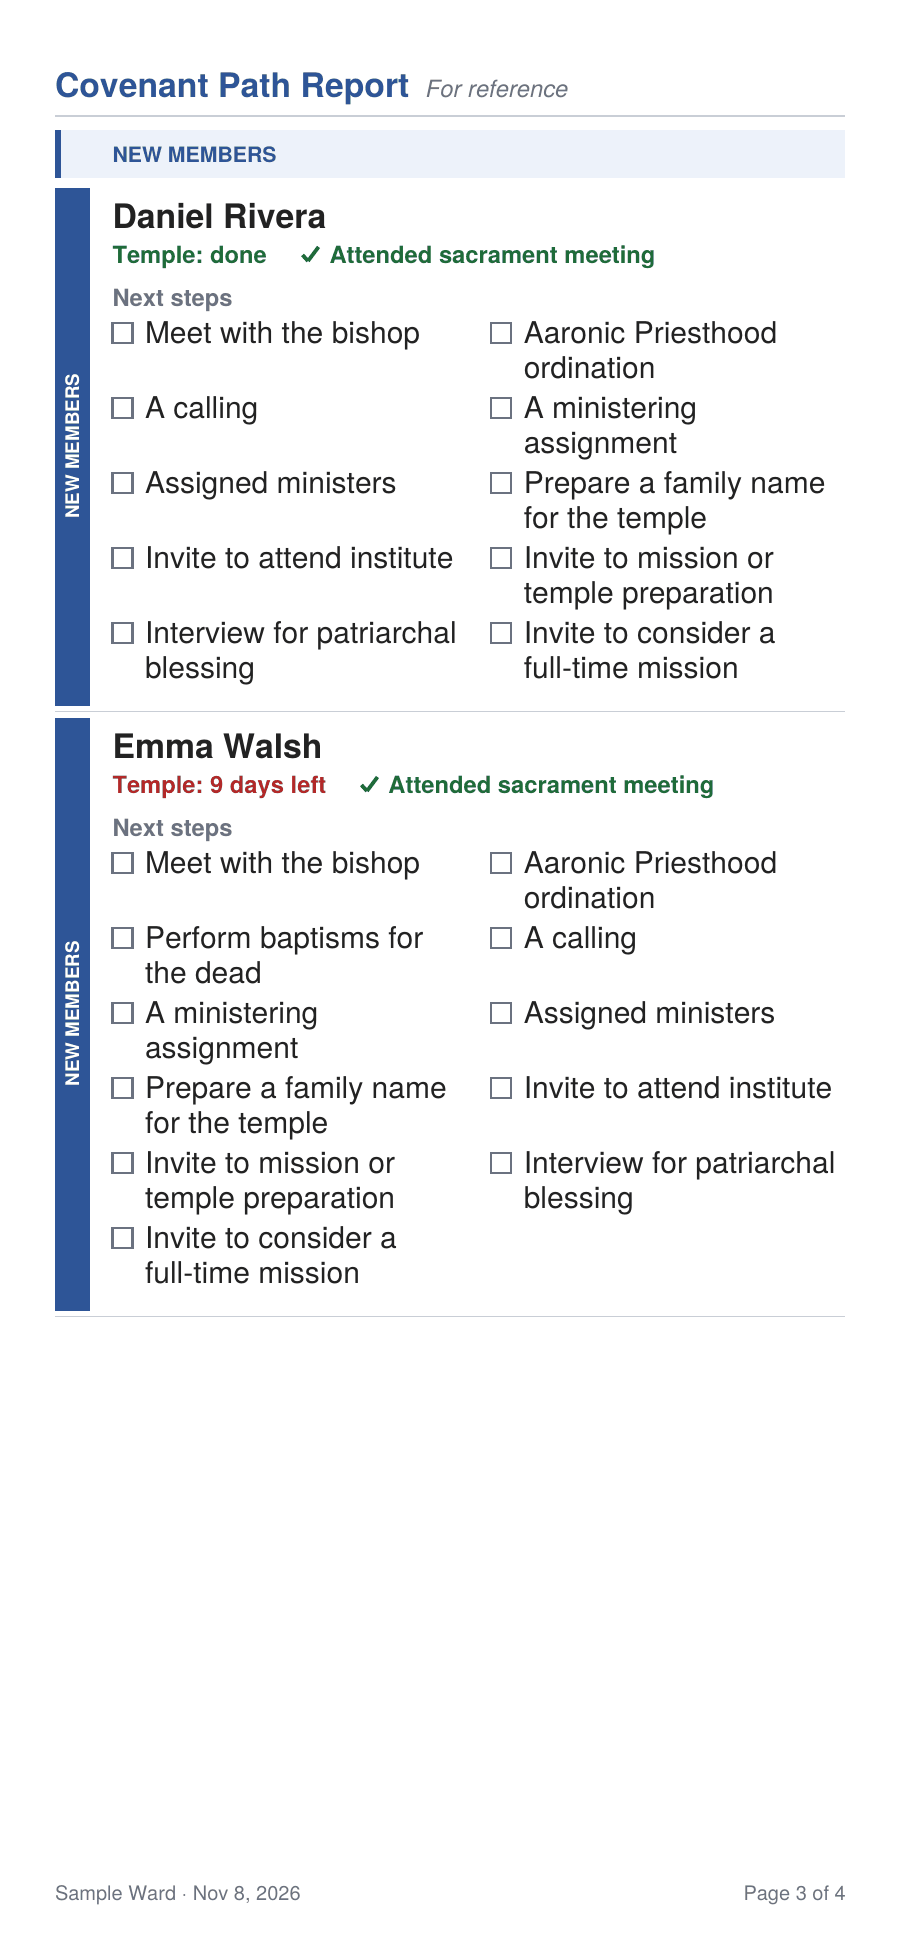
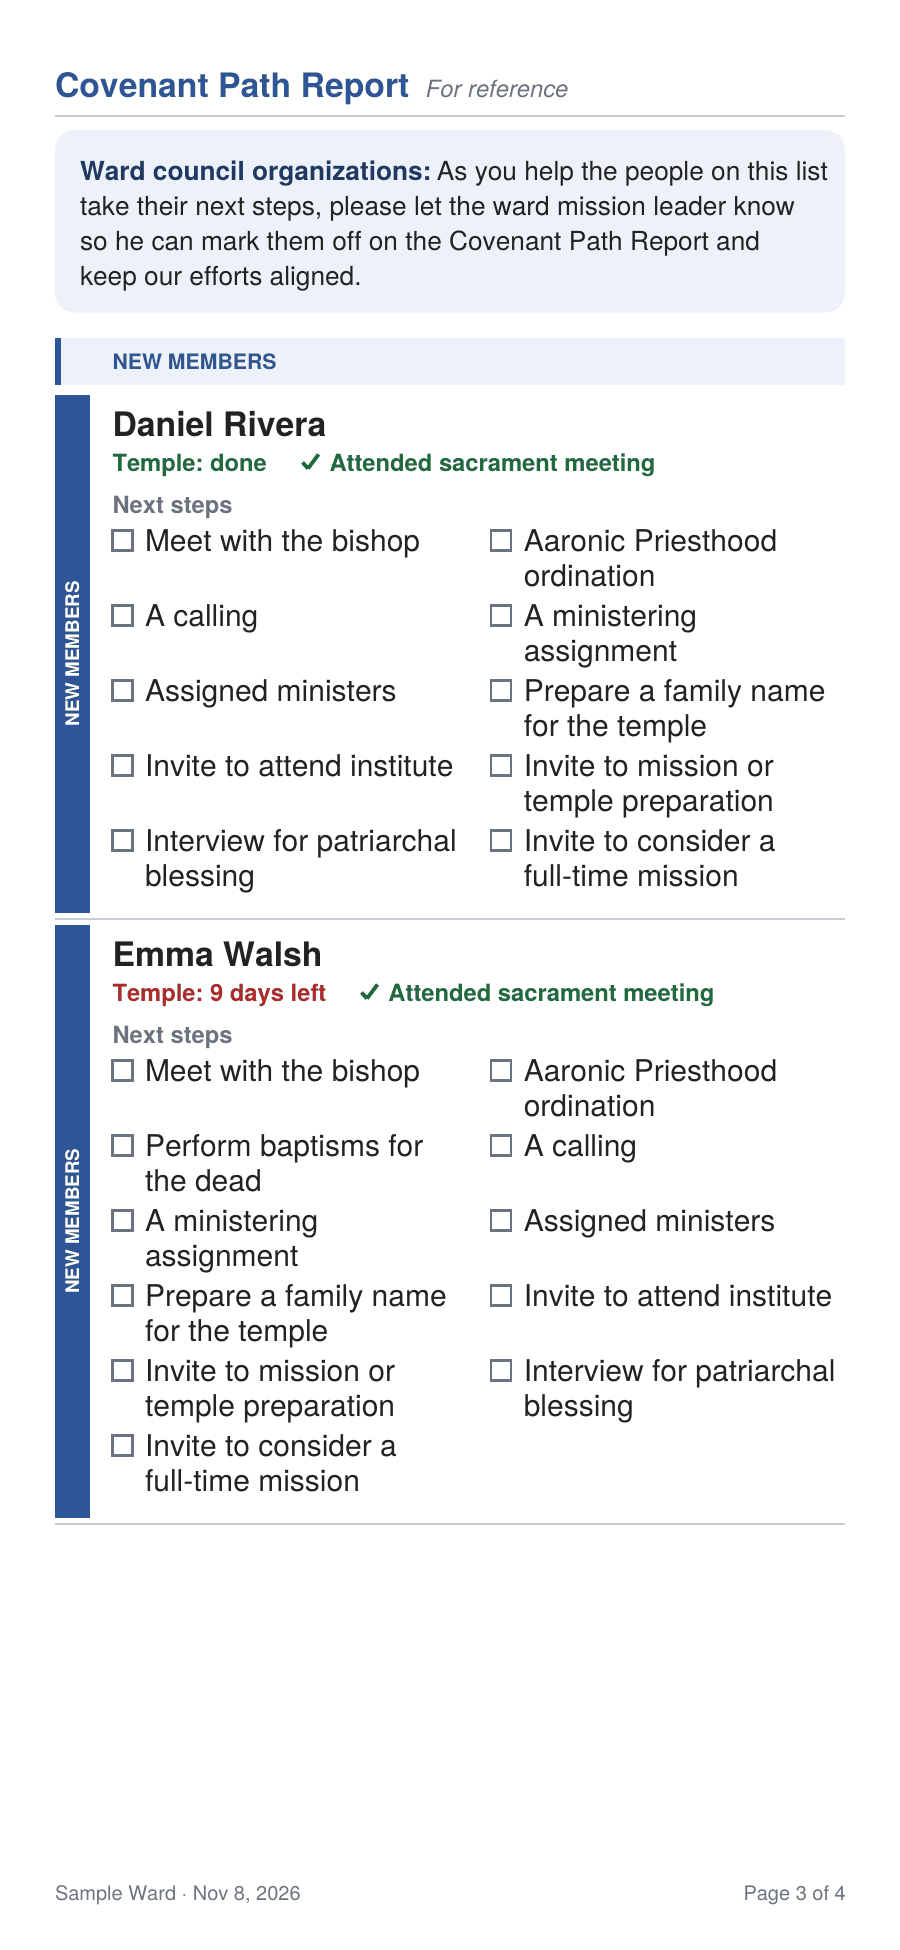
Release v257: the huddle report asks ward council organizations to tell the ward mission leader as people take their next steps
Claude-Session: https://claude.ai/code/session_01PW98YcMvh8WynmxGN9Y5LD

Changed region(s): [[0.0622, 0.0615, 0.9333, 0.8], [0.0622, 0.4615, 0.0933, 0.5538]]

diff --git a/app.js b/app.js
@@ -4379,6 +4379,20 @@
 
     /* ----- Covenant Path Report Review ----- */
     heading('Covenant Path Report', 'For reference');
+    // A note to ward council organizations (the user's wording, Nov 20, 2026): tell the ward mission leader as people take
+    // their next steps, so he can mark them off on the Covenant Path Report.
+    (function () {
+      var k = 'Ward council organizations: ', pad = 10, sz = 10.5, lh = 14;
+      var lns = wrap(k + WC_NOTE, F.reg, sz, R - L - pad * 2), hh = lns.length * lh + pad * 2 - 3;
+      put([line(hh, function (top) {
+        rbox(L, top, R - L, hh, 8, rgb(0.925, 0.945, 0.98));
+        lns.forEach(function (ln, i) {
+          var yy = top + pad + 10 + i * lh;
+          if (!i && ln.indexOf(k) === 0) { var e = tx(L + pad, yy, k.trim(), F.bold, sz, C.navy); tx(e + width(' ', F.reg, sz), yy, ln.slice(k.length), F.reg, sz, C.dark); }
+          else tx(L + pad, yy, ln, F.reg, sz, C.dark);
+        });
+      }), space(10)]);
+    })();
     GROUPS.forEach(function (g) {
       groupLabel(g.title, g.id);
       var filled = s.cp[g.id].filter(function (a) { return a.sac || hasText(a, CARD_KEYS); });
@@ -4593,6 +4607,7 @@
     try { return !!(navigator.canShare && navigator.share && navigator.canShare({ files: [file] })); } catch (e) { return false; }
   }
 
+  var WC_NOTE = 'As you help the people on this list take their next steps, please let the ward mission leader know so he can mark them off on the Covenant Path Report and keep our efforts aligned.';
   var SHARE_HINT = 'Only share via email or text message. Do not share through any other app.';
   function resetSendSheet() {
     sendFile = null; sendPayload = null;

diff --git a/try/app.js b/try/app.js
@@ -4379,6 +4379,20 @@
 
     /* ----- Covenant Path Report Review ----- */
     heading('Covenant Path Report', 'For reference');
+    // A note to ward council organizations (the user's wording, Nov 20, 2026): tell the ward mission leader as people take
+    // their next steps, so he can mark them off on the Covenant Path Report.
+    (function () {
+      var k = 'Ward council organizations: ', pad = 10, sz = 10.5, lh = 14;
+      var lns = wrap(k + WC_NOTE, F.reg, sz, R - L - pad * 2), hh = lns.length * lh + pad * 2 - 3;
+      put([line(hh, function (top) {
+        rbox(L, top, R - L, hh, 8, rgb(0.925, 0.945, 0.98));
+        lns.forEach(function (ln, i) {
+          var yy = top + pad + 10 + i * lh;
+          if (!i && ln.indexOf(k) === 0) { var e = tx(L + pad, yy, k.trim(), F.bold, sz, C.navy); tx(e + width(' ', F.reg, sz), yy, ln.slice(k.length), F.reg, sz, C.dark); }
+          else tx(L + pad, yy, ln, F.reg, sz, C.dark);
+        });
+      }), space(10)]);
+    })();
     GROUPS.forEach(function (g) {
       groupLabel(g.title, g.id);
       var filled = s.cp[g.id].filter(function (a) { return a.sac || hasText(a, CARD_KEYS); });
@@ -4593,6 +4607,7 @@
     try { return !!(navigator.canShare && navigator.share && navigator.canShare({ files: [file] })); } catch (e) { return false; }
   }
 
+  var WC_NOTE = 'As you help the people on this list take their next steps, please let the ward mission leader know so he can mark them off on the Covenant Path Report and keep our efforts aligned.';
   var SHARE_HINT = 'Only share via email or text message. Do not share through any other app.';
   function resetSendSheet() {
     sendFile = null; sendPayload = null;

diff --git a/test/checklist.js b/test/checklist.js
@@ -130,6 +130,7 @@ const ok = (c, m) => { if (c) { passed++; console.log('PASS ' + m); } else { fai
   const [dl] = await Promise.all([p.waitForEvent('download'), p.click('#share-btn')]);
   const f = OUT + '/checklist.pdf'; await dl.saveAs(f);
   const t = execSync(`pdftotext "${f}" -`).toString().replace(/\s+/g, ' ');
+  ok(t.includes('Ward council organizations: As you help the people on this list take their next steps, please let the ward mission leader know so he can mark them off on the Covenant Path Report and keep our efforts aligned.'), 'the PDF asks ward council organizations to tell the ward mission leader about next steps taken');
   ok(/Done this week Melchizedek Priesthood ordination|Done this week/.test(t) && /Next steps/.test(t) && !/Still open/.test(t) && /Melchizedek Priesthood ordination/.test(t), 'PDF: Done this week under the focus name, What will help, and no checklist');
 
   // Next huddle: the checklist comes along with the name

diff --git a/try/sw.js b/try/sw.js
@@ -1,5 +1,5 @@
 /* Offline support: caches the page's own files only. It never stores form data. */
-var CACHE = 'huddle-test-v30';
+var CACHE = 'huddle-test-v31';
 var FILES = [
   './',
   'index.html',

diff --git a/sw.js b/sw.js
@@ -1,5 +1,5 @@
 /* Offline support: caches the page's own files only. It never stores form data. */
-var CACHE = 'huddle-v256';
+var CACHE = 'huddle-v257';
 var FILES = [
   './',
   'index.html',

diff --git a/docs/SPEC.md b/docs/SPEC.md
@@ -957,3 +957,9 @@ handoff link without it loads with no referrals (referrals are no longer shown, 
   and tell the ward mission leader at ward council what happened.
 - The last slide (no confidential line under it; slide 20 carries it): "We are joyfully gathering Israel one by one in Christ. Every name here is someone the Lord knows and loves.
   Thank you for helping each one take their next step on the covenant path."
+
+## Huddle report: a note to ward council organizations (Nov 20, 2026)
+
+- Under the PDF's "Covenant Path Report · For reference" heading, a light blue box: "Ward council organizations: As you help
+  the people on this list take their next steps, please let the ward mission leader know so he can mark them off on the
+  Covenant Path Report and keep our efforts aligned." (`WC_NOTE` in app.js; `test/checklist.js` checks it.)
